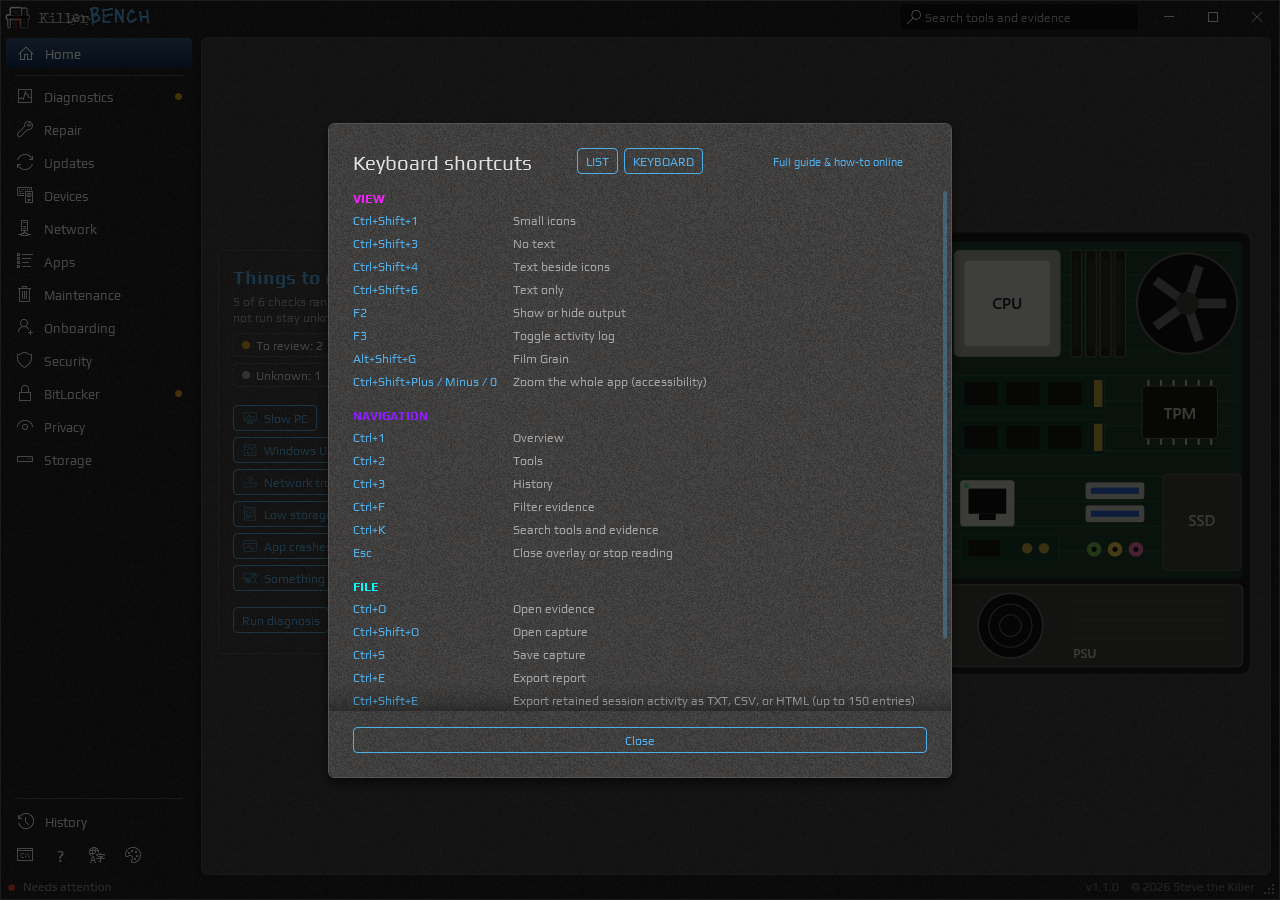
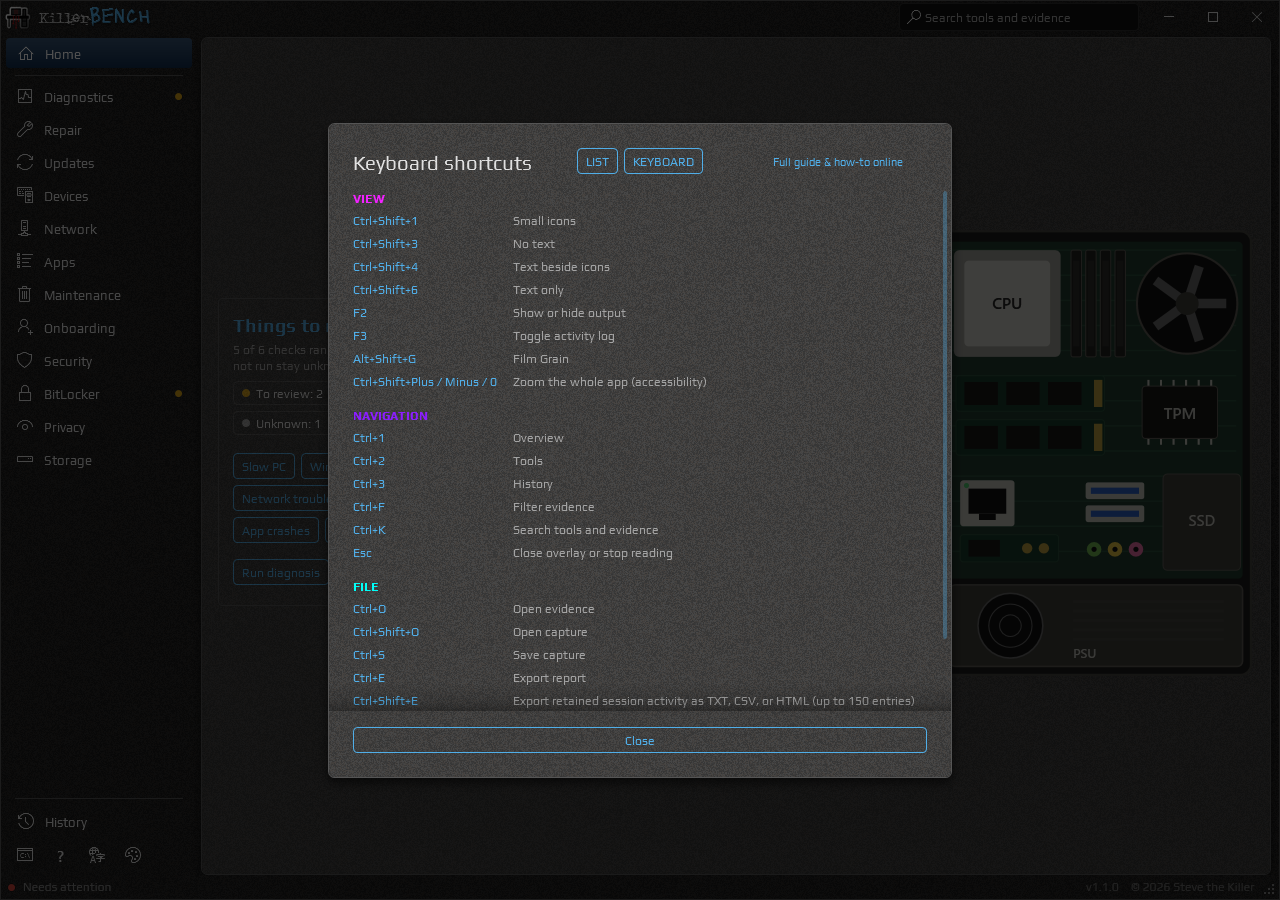
v1.1.0: Sit the monitor flush with the tower and tighten the symptom buttons

Changed region(s): [[0.1875, 0.3111, 0.25, 0.6533], [0.1875, 0.6844, 0.25, 0.7156]]

diff --git a/Shell/MainWindow.xaml b/Shell/MainWindow.xaml
@@ -206,11 +206,8 @@
                     <ItemsControl x:Name="SymptomChips" Margin="0,4,0,10" AutomationProperties.Name="{DynamicResource Str_Guided_Title}">
                       <ItemsControl.ItemsPanel><ItemsPanelTemplate><WrapPanel/></ItemsPanelTemplate></ItemsControl.ItemsPanel>
                       <ItemsControl.ItemTemplate><DataTemplate>
-                        <Button Click="OnSymptomChip" Tag="{Binding}" Margin="0,0,6,6" Padding="8,4" AutomationProperties.Name="{Binding Title}" ToolTip="{Binding Description}">
-                          <StackPanel Orientation="Horizontal">
-                            <icons:AreaIllustration Id="{Binding Art}" Stroke="{DynamicResource PrimaryBrush}" Width="16" Height="16" Margin="0,0,6,0" VerticalAlignment="Center" IsHitTestVisible="False"/>
-                            <TextBlock Text="{Binding Title}" FontSize="12" VerticalAlignment="Center"/>
-                          </StackPanel>
+                        <Button Click="OnSymptomChip" Tag="{Binding}" Margin="0,0,6,6" Padding="8,3" AutomationProperties.Name="{Binding Title}" ToolTip="{Binding Description}">
+                          <TextBlock Text="{Binding Title}" FontSize="12"/>
                         </Button>
                       </DataTemplate></ItemsControl.ItemTemplate>
                     </ItemsControl>

diff --git a/Controls/MachineMapPanel.cs b/Controls/MachineMapPanel.cs
@@ -41,10 +41,9 @@ public sealed class MachineMapPanel : Panel
         ["Repair"] = new(448, 340, 284, 82),
     };
 
-    // The monitor stands on a short foot so its base lines up with the tower's; the strip it frees above it
-    // is GaugeRect, where the Overview puts its score gauge. Monitor parts are drawn in the old coordinates and
-    // shifted down by MonitorDrop.
-    private const double MonitorDrop = 100;
+    // The monitor sits flush on the tower's floor line; the strip it frees above it is GaugeRect, where the
+    // Overview puts its score gauge. Monitor parts are drawn in the old coordinates and shifted down by MonitorDrop.
+    private const double MonitorDrop = 124;
     private static readonly Rect Monitor = new(4, 4, 424, 300);
     private static readonly Rect MonitorScreen = new(16, 32, 410, 260);
     private static readonly Rect Tower = new(438, 4, 300, 424);
@@ -147,8 +146,6 @@ public sealed class MachineMapPanel : Panel
         dc.DrawRoundedRectangle(Case, Line(Edge, 2), Monitor, 12, 12);
         dc.DrawRectangle(ScreenFill, null, new Rect(MonitorScreen.X, MonitorScreen.Y, MonitorScreen.Width - 12, MonitorScreen.Height - 4));
         dc.DrawRectangle(Taskbar, null, new Rect(MonitorScreen.X, 270, MonitorScreen.Width - 12, 18));
-        dc.DrawRectangle(Metal, null, new Rect(186, 304, 60, 10));
-        dc.DrawRoundedRectangle(Metal, null, new Rect(116, 312, 200, 12), 6, 6);
 
         // Privacy: the webcam on the top bezel.
         var cam = Parts["Privacy"];
